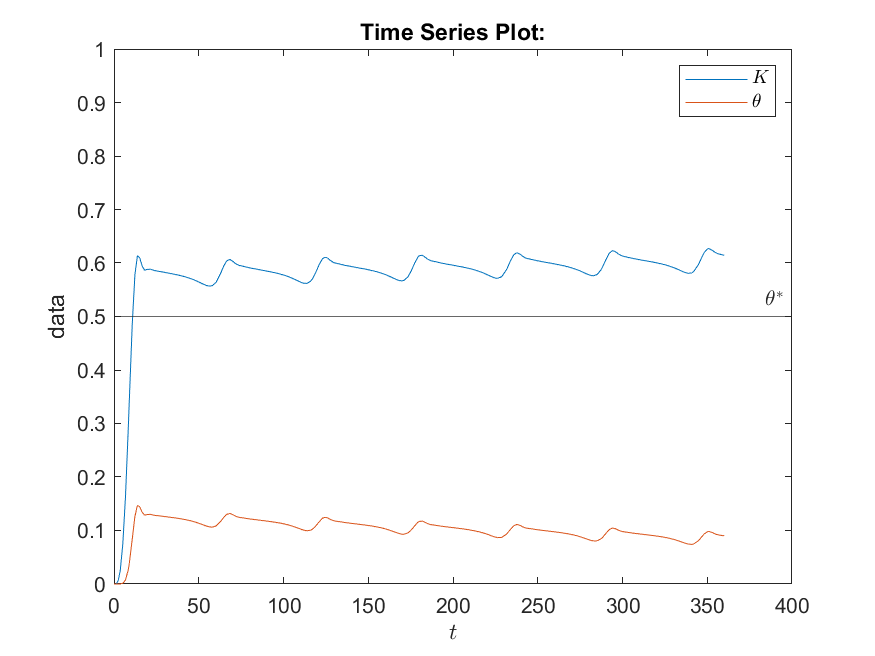
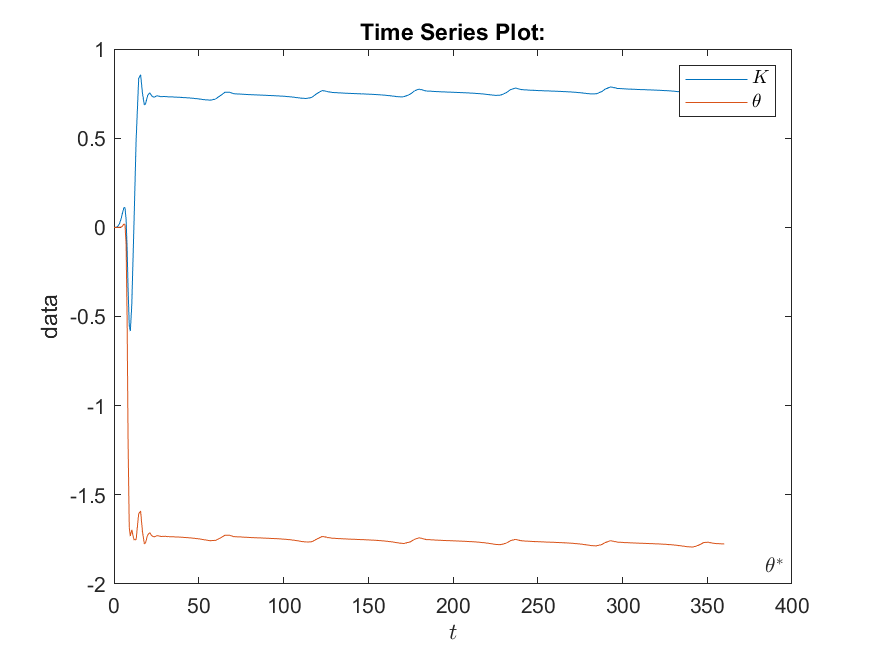
updates trabalho-1

diff --git a/trabalho-1/controle_adap_script.m b/trabalho-1/controle_adap_script.m
@@ -15,14 +15,14 @@ am = -1;
 bm = 1;
 
 % real plant
-ap = -1;
+ap = 2;
 bp = 1;
 
 % parameters
 alpha = 1;
 beta = 1;
 
-out = sim('controle_adap',4*ref_pulse_T);
+out = sim('controle_adap',8*ref_pulse_T);
 
 %optimal k and theta
 k_opt = bm/bp;
